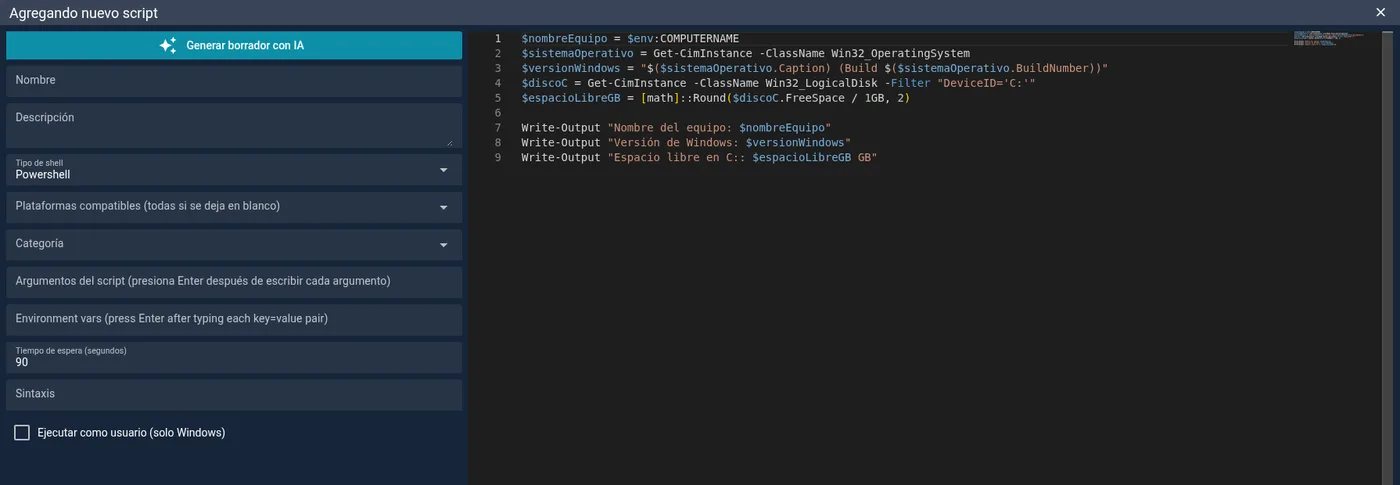
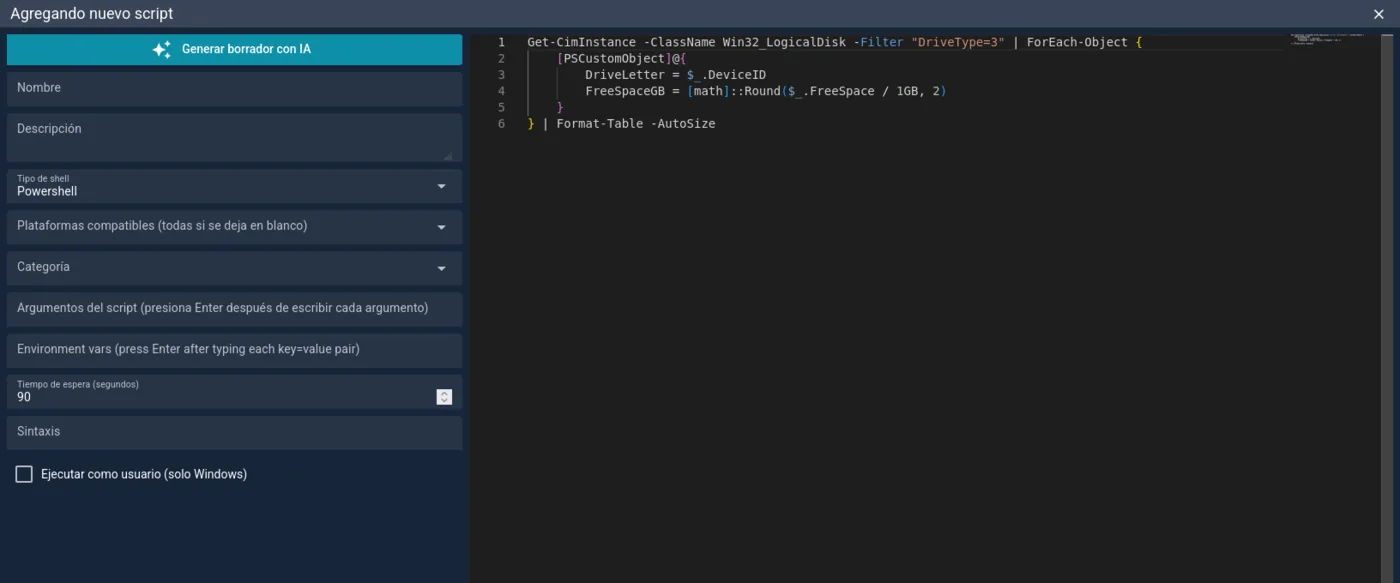
feat(docs): /features/ al dia con 1.4.3-1.4.4 -- plantillas, asistente IA y desinstalacion manual
Seccion nueva `#plantillas-scripts` (6 tarjetas + 2 figuras) para la biblioteca de
44 plantillas propias del producto, con los numeros verificados contra el
manifiesto vivo: 37 PowerShell para Windows + 7 Python multiplataforma, y 24 con
argumento `-Modo` que separa el diagnostico de la accion.

Corrige una afirmacion que quedo FALSA con la 034: la tarjeta "Biblioteca de
scripts y snippets" ofrecia "un catalogo de community scripts", que era el repo
externo que la feature elimino (ADR-026). Pasa a describir la biblioteca propia
del operador y a apuntar a las plantillas del producto.

Capturas nuevas (staging, DESKTOP-8I6R7NF = VM del datacenter):
- `plantillas-biblioteca.webp` -- Administrador de scripts, "1-44 de 44" a la vista.
- `script-ejecucion-windows.webp` -- la plantilla "Antivirus - Estado consolidado"
  corriendo en un equipo Windows, con la salida completa y su veredicto. Se
  eligio una salida de 23 lineas porque cabe entera en el cuadro; el dialogo va
  MAXIMIZADO, que ademas tapa el panel de hardware de atras (IP publica, IP LAN
  y UUID del equipo).
- `script-ia-prompt.webp` + `script-ia-borrador.webp` a `?v=2` -- el modal viejo
  era un campo de una sola linea; el nuevo trae cuadro amplio, contador,
  ejemplos clicables y Ctrl+Enter. El borrador se pidio de verdad al asistente
  ("informe el espacio libre de cada disco en GB").

Ademas: alarma al volumen maximo, geolocalizacion activada por omision en
[…]

diff --git a/docs-site/features/index.html b/docs-site/features/index.html
@@ -4,7 +4,7 @@
 <meta charset="utf-8">
 <meta name="viewport" content="width=device-width, initial-scale=1">
 <title>Características · Software RMM con geolocalización y antirrobo</title>
-<meta name="description" content="Control remoto, scripts, monitoreo con alertas, parches, inventario, ubicación de la flota con geocerca y respuesta antirrobo en Windows, Linux y macOS.">
+<meta name="description" content="Control remoto, 44 plantillas de scripts, monitoreo con alertas, parches, inventario, ubicación con geocerca y respuesta antirrobo en Windows, Linux y macOS.">
 <!-- seo:start -->
 <link rel="canonical" href="https://docs.observer.cl/features/">
 <meta name="robots" content="index, follow, max-image-preview:large">
@@ -15,7 +15,7 @@
 <meta property="og:locale:alternate" content="en_US">
 <meta property="og:url" content="https://docs.observer.cl/features/">
 <meta property="og:title" content="Características · Software RMM con geolocalización y antirrobo">
-<meta property="og:description" content="Control remoto, scripts, monitoreo con alertas, parches, inventario, ubicación de la flota con geocerca y respuesta antirrobo en Windows, Linux y macOS.">
+<meta property="og:description" content="Control remoto, 44 plantillas de scripts, monitoreo con alertas, parches, inventario, ubicación con geocerca y respuesta antirrobo en Windows, Linux y macOS.">
 <meta property="og:image" content="https://docs.observer.cl/assets/og-observer-rmm.png">
 <meta property="og:image:width" content="1200">
 <meta property="og:image:height" content="630">
@@ -75,12 +75,12 @@
       <p class="lead lang-en">Observer RMM brings together, in a single console, everything you need to remotely monitor and manage a fleet of Windows, Linux, and macOS machines: remote control, script execution, monitoring with alerting, patch management, inventory, asset location, and immediate response on the machine itself.</p>
 
       <div class="callout note lang-es">
-        <span class="tag">Novedades en 1.4.2</span>
-        <p>Las dos capacidades más recientes son <a href="#ubicacion">ubicación de la flota con geocerca</a> y <a href="#respuesta-endpoint">respuesta rápida en el equipo</a> (bloqueo de pantalla, mensaje al usuario y alarma sonora). Ambas requieren el agente 2.14 o superior, que se instala solo en los equipos con auto-actualización activada.</p>
+        <span class="tag">Novedades en 1.4.4</span>
+        <p>Lo más reciente son la <a href="#plantillas-scripts">biblioteca de 44 plantillas de scripts</a> propias del producto, el <a href="#ejecucion-automatizacion">borrador de script con IA</a> —que ahora se pide en un cuadro amplio, con ejemplos y espera visible— y el <a href="#seguridad-acceso">aviso cuando alguien desinstala el agente a mano</a> en el equipo. Antes de eso llegaron la <a href="#ubicacion">ubicación de la flota con geocerca</a> y la <a href="#respuesta-endpoint">respuesta rápida en el equipo</a>, que requieren el agente 2.14 o superior.</p>
       </div>
       <div class="callout note lang-en">
-        <span class="tag">New in 1.4.2</span>
-        <p>The two newest capabilities are <a href="#ubicacion">fleet location with geofencing</a> and <a href="#respuesta-endpoint">on-device quick response</a> (screen lock, on-screen message, and audible alarm). Both need agent 2.14 or later, which installs itself on machines that have auto-update enabled.</p>
+        <span class="tag">New in 1.4.4</span>
+        <p>The latest additions are the <a href="#plantillas-scripts">library of 44 script templates</a> that ship with the product, the <a href="#ejecucion-automatizacion">AI script draft</a> —now asked for in a roomy box, with examples and a visible wait— and the <a href="#seguridad-acceso">alert when someone uninstalls the agent by hand</a> on the machine. Before those came <a href="#ubicacion">fleet location with geofencing</a> and <a href="#respuesta-endpoint">on-device quick response</a>, which need agent 2.14 or later.</p>
       </div>
 
       <figure class="doc-shot">
@@ -131,8 +131,12 @@
           <p><span class="lang-es">Corre comandos y scripts en varios lenguajes: <strong>bash, batch, PowerShell, Python, Nushell y Deno</strong>.</span><span class="lang-en">Run commands and scripts in several languages: <strong>bash, batch, PowerShell, Python, Nushell, and Deno</strong>.</span></p>
         </div>
         <div class="feature">
-          <h3><span class="lang-es">Biblioteca de scripts y snippets</span><span class="lang-en">Script library &amp; snippets</span></h3>
-          <p><span class="lang-es">Gestiona tu propia biblioteca de scripts, con snippets reutilizables y un catálogo de <em>community scripts</em>.</span><span class="lang-en">Manage your own script library, with reusable snippets and a <em>community scripts</em> catalog.</span></p>
+          <h3><span class="lang-es">Tu propia biblioteca de scripts</span><span class="lang-en">Your own script library</span></h3>
+          <p><span class="lang-es">Sube o escribe tus scripts, reúsa fragmentos, organízalos en carpetas por categoría y oculta los que no quieras ver. Y encima de los tuyos vienen las <a href="#plantillas-scripts">plantillas del producto</a>.</span><span class="lang-en">Upload or write your own scripts, reuse snippets, organize them in folders by category, and hide the ones you don't want to see. On top of yours come the <a href="#plantillas-scripts">product templates</a>.</span></p>
+        </div>
+        <div class="feature">
+          <h3><span class="lang-es">Acentos y ñ en Windows en español</span><span class="lang-en">Accents and ñ on Spanish Windows</span></h3>
+          <p><span class="lang-es">El código del script y su salida conservan los acentos y la ñ en equipos Windows en español. Requiere el agente 2.15.1 o superior, que la flota instala sola.</span><span class="lang-en">Script code and its output keep accents and the letter ñ on Spanish-language Windows machines. Needs agent 2.15.1 or later, which the fleet installs on its own.</span></p>
         </div>
         <div class="feature">
           <h3><span class="lang-es">Scripts favoritos</span><span class="lang-en">Favorite scripts</span></h3>
@@ -160,16 +164,54 @@
         </div>
         <div class="feature">
           <h3><span class="lang-es">Borrador de script con IA (opcional)</span><span class="lang-en">AI script draft (optional)</span></h3>
-          <p><span class="lang-es">Describe en lenguaje natural lo que necesitas y la IA redacta un <strong>borrador</strong> en el editor, en el lenguaje de script que tengas elegido. Funciona con <strong>cualquier proveedor compatible con el formato de OpenAI</strong>, incluso uno alojado por ti: se configura la URL del servicio, el modelo y el token. <strong>Sin token, la opción no aparece.</strong></span><span class="lang-en">Describe what you need in plain language and the AI drafts a <strong>starting point</strong> in the editor, in whichever scripting language you picked. It works with <strong>any provider that speaks the OpenAI format</strong>, including one you host yourself: you set the service URL, the model, and the token. <strong>With no token, the option doesn't appear.</strong></span></p>
+          <p><span class="lang-es">Describe en lenguaje natural lo que necesitas y la IA redacta un <strong>borrador</strong> en el editor, en el lenguaje de script que tengas elegido. El pedido se escribe en un cuadro amplio —con ejemplos para partir, contador de caracteres y <kbd>Ctrl</kbd>+<kbd>Enter</kbd> para generar— y mientras se espera la consola muestra los segundos transcurridos. Funciona con <strong>cualquier proveedor compatible con el formato de OpenAI</strong>, incluso uno alojado por ti: se configura la URL del servicio, el modelo, el límite de tokens y la temperatura. <strong>Sin token, la opción no aparece.</strong></span><span class="lang-en">Describe what you need in plain language and the AI drafts a <strong>starting point</strong> in the editor, in whichever scripting language you picked. You type the request in a roomy box —with examples to start from, a character counter, and <kbd>Ctrl</kbd>+<kbd>Enter</kbd> to generate— and while it waits the console shows the seconds elapsed. It works with <strong>any provider that speaks the OpenAI format</strong>, including one you host yourself: you set the service URL, the model, the token limit, and the temperature. <strong>With no token, the option doesn't appear.</strong></span></p>
         </div>
       </div>
       <figure class="doc-shot">
-        <img src="/assets/shots/script-ia-prompt.webp?v=1" width="1400" height="485" loading="lazy" decoding="async" alt="Diálogo para pedirle a la IA un borrador de script en lenguaje natural">
-        <figcaption><span class="lang-es">Al crear un script, el botón <em>Generar borrador con IA</em> abre esta caja: se pide lo que se necesita en lenguaje corriente. La consola ya antepone el lenguaje elegido —acá <em>PowerShell</em>— para que baste con describir la tarea.</span><span class="lang-en">When you create a script, the <em>Generate draft with AI</em> button opens this box: you ask for what you need in everyday language. The console already prefixes the language you picked —here <em>PowerShell</em>— so you only have to describe the task.</span></figcaption>
+        <img src="/assets/shots/script-ia-prompt.webp?v=2" width="1400" height="583" loading="lazy" decoding="async" alt="Cuadro para pedirle a la IA un borrador de script en lenguaje natural, con ejemplos y contador de caracteres">
+        <figcaption><span class="lang-es">Al crear un script, el botón <em>Generar borrador con IA</em> abre este cuadro: se pide lo que se necesita en lenguaje corriente, con espacio para releer la instrucción antes de mandarla. La consola ya antepone el lenguaje elegido —acá <em>Powershell</em>—, así que basta con describir la tarea; los tres ejemplos se pueden usar tal cual.</span><span class="lang-en">When you create a script, the <em>Generate draft with AI</em> button opens this box: you ask for what you need in everyday language, with room to re-read the instruction before sending it. The console already prefixes the language you picked —here <em>Powershell</em>—, so you only have to describe the task; the three examples work as-is.</span></figcaption>
       </figure>
       <figure class="doc-shot">
-        <img src="/assets/shots/script-ia-borrador.webp?v=1" width="1400" height="485" loading="lazy" decoding="async" alt="Borrador de script PowerShell generado por la IA dentro del editor">
+        <img src="/assets/shots/script-ia-borrador.webp?v=2" width="1400" height="583" loading="lazy" decoding="async" alt="Borrador de script PowerShell generado por la IA dentro del editor de la consola">
         <figcaption><span class="lang-es">El borrador entra directo al editor, listo para revisar, ajustar y probar antes de guardarlo. Es un punto de partida, no un script terminado: la revisión humana sigue siendo tuya.</span><span class="lang-en">The draft lands straight in the editor, ready to review, tweak, and test before saving. It's a starting point, not a finished script: the human review is still yours.</span></figcaption>
+      </figure>
+
+      <h2 id="plantillas-scripts"><span class="lang-es">Biblioteca de plantillas de scripts</span><span class="lang-en">Script template library</span></h2>
+      <p class="lang-es">La consola no llega vacía: trae <strong>44 plantillas de scripts propias del producto</strong>, escritas para las tareas que un operador repite todas las semanas. Se cargan con el despliegue y se versionan junto al producto, sin clonar ningún repositorio externo.</p>
+      <p class="lang-en">The console doesn't arrive empty: it ships <strong>44 script templates of our own</strong>, written for the tasks an operator repeats every week. They load with the deployment and are versioned alongside the product, with no external repository to clone.</p>
+      <figure class="doc-shot">
+        <img src="/assets/shots/plantillas-biblioteca.webp?v=1" width="1400" height="718" loading="lazy" decoding="async" alt="Administrador de scripts de Observer RMM con las 44 plantillas del producto, su shell, plataformas y categoría">
+        <figcaption><span class="lang-es">El Administrador de scripts con las plantillas del producto: shell, plataformas donde corren, argumentos por omisión, categoría y tiempo de espera. El interruptor de la barra las muestra u oculta frente a los scripts que escribe el operador.</span><span class="lang-en">The script manager showing the product templates: shell, platforms they run on, default arguments, category, and timeout. The toolbar switch shows or hides them against the scripts the operator writes.</span></figcaption>
+      </figure>
+      <div class="feature-grid">
+        <div class="feature">
+          <h3><span class="lang-es">37 para Windows y 7 multiplataforma</span><span class="lang-en">37 for Windows and 7 cross-platform</span></h3>
+          <p><span class="lang-es">Treinta y siete plantillas de <strong>PowerShell</strong> para Windows y siete de <strong>Python</strong> que corren igual en Windows, Linux y macOS. La consola muestra en cada fila las plataformas donde aplica.</span><span class="lang-en">Thirty-seven <strong>PowerShell</strong> templates for Windows and seven <strong>Python</strong> ones that run the same on Windows, Linux, and macOS. Each row shows which platforms it applies to.</span></p>
+        </div>
+        <div class="feature">
+          <h3><span class="lang-es">Se distinguen de las tuyas</span><span class="lang-en">Told apart from yours</span></h3>
+          <p><span class="lang-es">Las plantillas llevan isotipo propio y son de <strong>solo lectura</strong>: no se pisan al actualizar ni se confunden con los scripts del operador. Si quieres una variante, se clona.</span><span class="lang-en">Templates carry their own mark and are <strong>read-only</strong>: an upgrade never overwrites them and they're never confused with the operator's own scripts. Want a variant? Clone it.</span></p>
+        </div>
+        <div class="feature">
+          <h3><span class="lang-es">Organizadas por área</span><span class="lang-en">Organized by area</span></h3>
+          <p><span class="lang-es">Categorías para llegar rápido: seguridad, red, sistema, almacenamiento, software, usuarios, directorio, inventario, impresión y agente. Con vista de tabla o de carpetas.</span><span class="lang-en">Categories to get there fast: security, network, system, storage, software, users, directory, inventory, printing, and agent. In table or folder view.</span></p>
+        </div>
+        <div class="feature">
+          <h3><span class="lang-es">Diagnóstico separado de la acción</span><span class="lang-en">Diagnosis separated from action</span></h3>
+          <p><span class="lang-es">Buena parte trae un argumento <code>-Modo</code> que permite pedir primero el estado y decidir después si se interviene. La descripción de cada plantilla dice si solo lee o si cambia algo.</span><span class="lang-en">Many take a <code>-Modo</code> argument, so you can ask for the current state first and decide afterwards whether to act. Each template's description says whether it only reads or changes something.</span></p>
+        </div>
+        <div class="feature">
+          <h3><span class="lang-es">Argumentos y variables para una prueba puntual</span><span class="lang-en">Arguments and variables for a one-off test</span></h3>
+          <p><span class="lang-es">Al abrir una plantilla se ven sus argumentos, variables de entorno y tiempo de espera, y se pueden ajustar para probar sin clonarla. La consola avisa que esos cambios <strong>no se guardan</strong>.</span><span class="lang-en">Opening a template shows its arguments, environment variables, and timeout, and you can tweak them for a test without cloning it. The console warns that those changes <strong>are not saved</strong>.</span></p>
+        </div>
+        <div class="feature">
+          <h3><span class="lang-es">Igual en un equipo en español que en inglés</span><span class="lang-en">Same on a Spanish or an English machine</span></h3>
+          <p><span class="lang-es">Las plantillas no comparan texto traducido del sistema operativo: se apoyan en identificadores estables (SID de grupo, enumeraciones, claves de registro), así que el resultado no depende del idioma del equipo.</span><span class="lang-en">The templates never compare translated operating-system text: they rely on stable identifiers (group SIDs, enumerations, registry keys), so the result doesn't depend on the machine's language.</span></p>
+        </div>
+      </div>
+      <figure class="doc-shot">
+        <img src="/assets/shots/script-ejecucion-windows.webp?v=1" width="1400" height="923" loading="lazy" decoding="async" alt="Ejecución de la plantilla Antivirus - Estado consolidado en un equipo Windows, con la salida devuelta en la consola">
+        <figcaption><span class="lang-es">Una plantilla corriendo en un equipo Windows de la flota: se elige, se espera la salida y el resultado vuelve a la consola —acá el estado consolidado del antivirus, con su veredicto al final—. Cada corrida queda en el historial del equipo y en el registro de auditoría.</span><span class="lang-en">A template running on a Windows machine in the fleet: pick it, wait for the output, and the result comes back to the console —here the consolidated antivirus status, with its verdict at the end—. Every run is recorded in the machine's history and in the audit log.</span></figcaption>
       </figure>
 
       <h2 id="monitoreo-alertas"><span class="lang-es">Monitoreo y alertas</span><span class="lang-en">Monitoring &amp; alerting</span></h2>
@@ -306,7 +348,7 @@
         </div>
         <div class="feature">
           <h3><span class="lang-es">Forzar ubicación y WiFi en el equipo</span><span class="lang-en">Force location &amp; WiFi on the machine</span></h3>
-          <p><span class="lang-es">Interruptor global aparte: con él activo, el agente enciende el servicio de ubicación del sistema y la radio WiFi si estaban apagados, para que el equipo pueda medirse.</span><span class="lang-en">A separate global switch: with it on, the agent turns on the system location service and the WiFi radio if they were off, so the machine can measure itself.</span></p>
+          <p><span class="lang-es">Interruptor global aparte: con él activo, el agente enciende el servicio de ubicación del sistema y la radio WiFi si estaban apagados, para que el equipo pueda medirse. En instalaciones nuevas, la ubicación y su forzado quedan <strong>activados por omisión</strong>.</span><span class="lang-en">A separate global switch: with it on, the agent turns on the system location service and the WiFi radio if they were off, so the machine can measure itself. On new installations, location and its forcing are <strong>enabled by default</strong>.</span></p>
         </div>
       </div>
       <div class="callout note lang-es">
@@ -340,7 +382,7 @@
         </div>
         <div class="feature">
           <h3><span class="lang-es">Alarma sonora</span><span class="lang-en">Audible alarm</span></h3>
-          <p><span class="lang-es">Hace sonar el equipo entre 5 y 300 segundos —para ubicarlo físicamente— y se puede cortar antes desde la consola con <em>Detener alarma</em>.</span><span class="lang-en">Makes the machine sound for 5 to 300 seconds —to locate it physically— and can be cut short from the console with <em>Stop alarm</em>.</span></p>
+          <p><span class="lang-es">Hace sonar el equipo entre 5 y 300 segundos —para ubicarlo físicamente— y se puede cortar antes desde la consola con <em>Detener alarma</em>. Suena al <strong>volumen máximo</strong> del equipo, así que bajarle el volumen no la apaga.</span><span class="lang-en">Makes the machine sound for 5 to 300 seconds —to locate it physically— and can be cut short from the console with <em>Stop alarm</em>. It plays at the machine's <strong>maximum volume</strong>, so turning the volume down doesn't silence it.</span></p>
         </div>
         <div class="feature">
           <h3><span class="lang-es">Equipo por equipo o en masa</span><span class="lang-en">One machine or many</span></h3>
@@ -449,6 +491,10 @@
         <div class="feature">
           <h3><span class="lang-es">Registro de auditoría</span><span class="lang-en">Audit log</span></h3>
           <p><span class="lang-es">Bitácora de toda acción de usuario: sesiones remotas, ejecución de scripts, cambios, acciones masivas y logins.</span><span class="lang-en">A log of every user action: remote sessions, script runs, changes, bulk actions, and logins.</span></p>
+        </div>
+        <div class="feature">
+          <h3><span class="lang-es">Aviso si desinstalan el agente a mano</span><span class="lang-en">Alert when the agent is uninstalled by hand</span></h3>
+          <p><span class="lang-es">Cuando alguien desinstala el agente directamente en el equipo, la consola se entera: llega una <strong>alerta por correo</strong> con qué equipo fue, quién lo hizo y cuándo, y queda registro en la auditoría. El equipo se da de baja de la consola y del control remoto tras una <strong>ventana de gracia de 10 minutos, cancelable</strong> —porque reinstalar el agente ejecuta esa misma desinstalación, y un reinstalador no debería costarle el historial al equipo—. La alerta se guarda de forma independiente, así que sobrevive a la baja del equipo.</span><span class="lang-en">When someone uninstalls the agent right on the machine, the console finds out: an <strong>email alert</strong> arrives with which machine it was, who did it, and when, and it's recorded in the audit log. The machine is then removed from the console and from remote control after a <strong>cancelable 10-minute grace window</strong> —because reinstalling the agent runs that very same uninstall, and a reinstall shouldn't cost the machine its history—. The alert is stored independently, so it outlives the machine's removal.</span></p>
         </div>
       </div>
 
